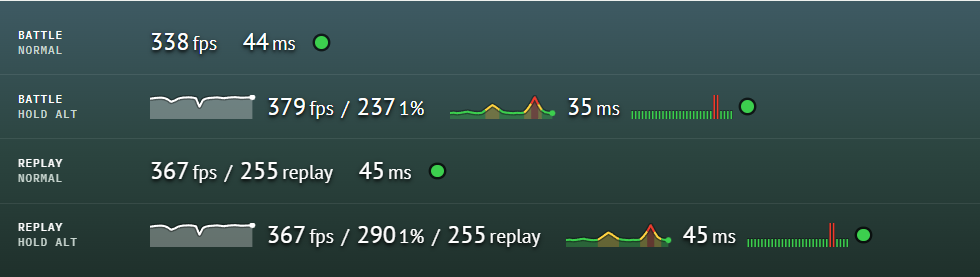
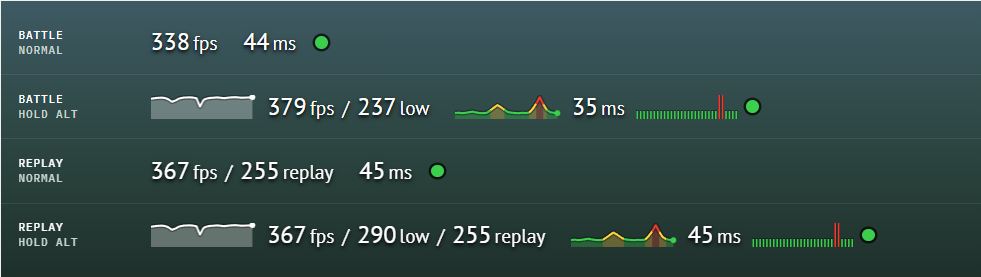
v1.0.0: low label; drop lag probe, per-second & debug logs

diff --git a/src/gui/mods/sagtary_fps_ping/flash_view.py b/src/gui/mods/sagtary_fps_ping/flash_view.py
@@ -54,9 +54,9 @@ def _createShadow(factory):
 
 
 def _createVectors(factory):
-    # Flash vectors for Graphics.drawPath: fill commands, line commands and the points; None if unavailable.
+    # Flash vectors for Graphics.drawPath: the commands and the points; None if unavailable.
     try:
-        vectors = (factory.getObject(_VECTOR_INT), factory.getObject(_VECTOR_INT), factory.getObject(_VECTOR_NUMBER))
+        vectors = (factory.getObject(_VECTOR_INT), factory.getObject(_VECTOR_NUMBER))
     except Exception:
         _logger.exception('cannot create Flash vectors for drawPath')
         return None
@@ -91,8 +91,6 @@ class _TextWidths(object):
         if (all(3.0 <= width <= 20.0 for width in digits.values()) and all(width > 0.0 for width in units.values())
                 and len(set(units.values())) > 1):
             self._digits, self._units = digits, units
-            _logger.info('text widths: digits %s, %s', ' '.join('%.1f' % digits[char] for char in _DIGITS),
-                         ', '.join('%s %.1f' % (unit, width) for unit, width in sorted(units.items())))
         else:
             _logger.warning('text widths look wrong (digits %s, %s), using the defaults', digits, units)
 
@@ -111,7 +109,7 @@ class _TextWidths(object):
 
 
 class _Value(object):
-    # A text field with one or more values, "367fps / 290 1% / 255replay": each value a number with small helper
+    # A text field with one or more values, "367fps / 290low / 255replay": each value a number with small helper
     # text after it, values split by a "/". Knows the width of its text from _TextWidths; the text is set only when
     # it changes.
 
@@ -152,10 +150,6 @@ class _Graph(object):
         self._colour = colour
         self._zones = zones
         self._paths = _createVectors(factory)
-
-    @property
-    def drawPath(self):
-        return self._paths is not None
 
     def draw(self, points):
         graphics = self.shape.graphics
@@ -212,7 +206,7 @@ class _Graph(object):
 
     def _drawShapesPath(self, graphics, shapes):
         # All shapes in one call: Graphics.drawPath takes all points at once (command 1 = moveTo, 2 = lineTo).
-        commands, _, data = self._paths
+        commands, data = self._paths
         _refill(commands, [command for shape in shapes for command in [1] + [2] * (len(shape) - 1)])
         _refill(data, [value for shape in shapes for point in shape for value in point])
         graphics.drawPath(commands, data)
@@ -260,7 +254,7 @@ class _LagTicks(object):
         if self._paths is not None:
             try:
                 # Each rectangle: moveTo and four lineTo.
-                commands, _, data = self._paths
+                commands, data = self._paths
                 _refill(commands, [1, 2, 2, 2, 2] * len(rects))
                 _refill(data, [value for x, y, w, h in rects
                                for value in (x, y, x + w, y, x + w, y + h, x, y + h, x, y)])
@@ -303,9 +297,10 @@ class _Lamp(object):
 
 
 class FlashView(object):
-    # Flash objects on the battle page, next to the game's own FPS/ping panel, in one line.
+    # Flash objects on the battle page, in place of the game's own FPS/ping panel, in one line.
     # Normal mode: "372fps    74ms ●". Extended mode (while Alt is held): each part with its graph before it, 1% low
-    # after the fps, the lag ticks before the lamp: "<graph> 372fps / 261 1%    <graph> 74ms <ticks> ●". In a replay the fps part also shows the FPS recorded in the replay: "367fps / 255replay".
+    # after the fps, the lag ticks before the lamp: "<graph> 372fps / 261low    <graph> 74ms <ticks> ●". In a replay
+    # the fps part also shows the FPS recorded in the replay: "367fps / 255replay".
     # The ping part and the lamp are hidden while there is no ping, everything while there is no FPS.
     # Python cannot construct Flash objects itself; the game's class factory (App.utils.classFactory) does it.
 
@@ -363,8 +358,6 @@ class FlashView(object):
         flashObject.parent.addChild(container)
         self._container = container
         self._visible = (False,) * len(self._children)
-        _logger.info('view created, drawPath vectors %s',
-                     'ready' if self._fpsGraph.drawPath and self._pingGraph.drawPath else 'unavailable')
 
     def detach(self):
         container = self._container
@@ -406,7 +399,7 @@ class FlashView(object):
         if hasFps:
             values = [(self._fps, u'fps')]
             if extended and self._low is not None:
-                values.append((self._low, u'1%'))
+                values.append((self._low, u'low'))
             if self._replayFps is not None:
                 values.append((self._replayFps, u'replay'))
             self._fpsText.set(values)

diff --git a/src/gui/mods/sagtary_fps_ping/config.py b/src/gui/mods/sagtary_fps_ping/config.py
@@ -5,11 +5,6 @@
 UPDATE_INTERVAL = 0.2
 # FPS is counted over the frames of the last FPS_WINDOW seconds.
 FPS_WINDOW = 1.0
-# FPS, 1% low and ping go to game.log every N screen updates (once per second).
-LOG_EVERY = 5
-# Temporary: for this many seconds from the start of each battle, write statLagDetected() and the server timing of
-# every frame to a CSV in the system temp folder (lag_probe.py); 0 turns it off.
-LAG_PROBE_SECONDS = 600
 # The game's own FPS/ping panel is hidden; the view takes its place.
 HIDE_GAME_PANEL = True
 
@@ -35,7 +30,7 @@ GRAPH_POINTS = int(round(GRAPH_SECONDS / GRAPH_INTERVAL))
 VIEW_POSITION = (9, 2)
 # Normal mode: one line, "372fps    74ms ●"; in a replay "367fps / 255replay    45ms ●" (the measured FPS, then the
 # one recorded in the replay). While the extended info key (Alt) is held, also one line:
-# "<graph> 372fps / 261 1%    <graph> 74ms <lag ticks> ●"; in a replay "<graph> 367fps / 290 1% / 255replay ...".
+# "<graph> 372fps / 261low    <graph> 74ms <lag ticks> ●"; in a replay "<graph> 367fps / 290low / 255replay ...".
 # Gaps: between a graph and its number, between the fps and the ping parts, between the ping text and the lamp,
 # between the ping text and the lag ticks, between the lag ticks and the lamp.
 GAP_GRAPH = 7
@@ -53,7 +48,7 @@ GRAPH_HEADROOM = 1.1
 PING_NONE = 999.0
 
 # Look: the game's own panel font, all text pure white like the panel's label picture. Numbers 15 px, the helper
-# text after a number ("fps", "1%", "replay", "ms") 12 px on the same baseline, 2 px after it; the values of one
+# text after a number ("fps", "low", "replay", "ms") 12 px on the same baseline, 2 px after it; the values of one
 # part are split by a 12 px "/" with 5 px on both sides. The gaps are spaces of a smaller font size (half the size
 # in px), so a size 4 space is 2 px.
 NUMBER_HTML = u'<font face="$FieldFont" size="15" color="#FFFFFF">%s</font>'
@@ -63,7 +58,7 @@ SEPARATOR_HTML = (u'<font face="$FieldFont" size="10"> </font>'
                   u'<font face="$FieldFont" size="10"> </font>')
 # Text widths: Python cannot read the width of a shown text field reliably, so the width of each digit, helper text
 # and separator is measured once when the view is created, and these are used if that fails: digit, then the texts.
-TEXT_WIDTHS = (8.0, {u'fps': 18.0, u'1%': 17.0, u'replay': 36.0, u'ms': 17.0, u'/': 14.0})
+TEXT_WIDTHS = (8.0, {u'fps': 18.0, u'low': 20.0, u'replay': 36.0, u'ms': 17.0, u'/': 14.0})
 # Text shadow, a DropShadowFilter like the game's own panel text has (read from the game in 2.4), but a little
 # darker: strength 0.8 instead of 0.6. Distance, angle, colour, alpha, blur, strength, quality.
 TEXT_SHADOW = (1.0, 90.0, 0x000000, 1.0, 4.0, 0.8, 2)

diff --git a/src/gui/mods/sagtary_fps_ping/indicator.py b/src/gui/mods/sagtary_fps_ping/indicator.py
@@ -1,5 +1,5 @@
 # -*- coding: utf-8 -*-
-"""Battle loop: measures frames, reads ping, updates the view and writes both to game.log."""
+"""Battle loop: measures frames, reads ping and lag, updates the view."""
 import logging
 from collections import deque
 
@@ -8,14 +8,10 @@ import BigWorld
 from gui.shared import EVENT_BUS_SCOPE, g_eventBus
 from gui.shared.events import GameEvent
 
-from gui.mods.sagtary_fps_ping.config import GRAPH_EVERY, GRAPH_POINTS, LOG_EVERY, PING_NONE, UPDATE_INTERVAL
+from gui.mods.sagtary_fps_ping.config import GRAPH_EVERY, GRAPH_POINTS, PING_NONE, UPDATE_INTERVAL
 from gui.mods.sagtary_fps_ping.frame_timer import FrameTimer
 
 _logger = logging.getLogger('sagtary.fps_ping')
-
-
-def _fmt(value):
-    return '%.1f' % value if value is not None else '-'
 
 
 def _replay():
@@ -68,7 +64,6 @@ class Indicator(object):
         self._view.setExtended(False)
         g_eventBus.addListener(GameEvent.SHOW_EXTENDED_INFO, self._onExtendedInfo, scope=EVENT_BUS_SCOPE.BATTLE)
         self._frameTimer.start()
-        _logger.info('indicator started')
         self._update()
 
     def stop(self):
@@ -82,7 +77,6 @@ class Indicator(object):
             self._running = False
             self._runView(self._view.hide)
             g_eventBus.removeListener(GameEvent.SHOW_EXTENDED_INFO, self._onExtendedInfo, scope=EVENT_BUS_SCOPE.BATTLE)
-            _logger.info('indicator stopped')
 
     def _update(self):
         self._callbackID = None
@@ -108,8 +102,6 @@ class Indicator(object):
             self._runView(self._view.update, fps, low, ping, lag, replayFps)
             if self._view.extended and newPoint:
                 self._scheduleGraphs()
-            if self._updates % LOG_EVERY == 0:
-                _logger.info('fps %s | 1%% low %s | ping %s', _fmt(fps), _fmt(low), _fmt(ping))
             self._updates += 1
         except Exception:
             _logger.exception('update failed, indicator stopped')

diff --git a/src/gui/mods/sagtary_fps_ping/frame_timer.py b/src/gui/mods/sagtary_fps_ping/frame_timer.py
@@ -7,7 +7,6 @@ from collections import deque
 import BigWorld
 
 from gui.mods.sagtary_fps_ping.config import CLOCK_CHECK_TIME, CLOCK_MIN_RATIO, FPS_WINDOW
-from gui.mods.sagtary_fps_ping.lag_probe import LagProbe
 from gui.mods.sagtary_fps_ping.low_fps import LowFPS
 
 _logger = logging.getLogger('sagtary.fps_ping')
@@ -28,17 +27,14 @@ class FrameTimer(object):
         self._frames = deque()
         self._framesTime = 0.0
         self.low = LowFPS()
-        self._lagProbe = LagProbe()
 
     def start(self):
         self.stop()
         self._clockCheck = (self._clock(), BigWorld.time())
         self._resetFrames()
-        self._lagProbe.start(self._clock())
         self._tick()
 
     def stop(self):
-        self._lagProbe.stop()
         if self._callbackID is not None:
             BigWorld.cancelCallback(self._callbackID)
             self._callbackID = None
@@ -58,7 +54,6 @@ class FrameTimer(object):
         self._callbackID = None
         try:
             now = self._clock()
-            self._lagProbe.add(now, BigWorld.wg_getFrameTimestamp())
             if self._lastTime is not None:
                 self._addFrame(now, now - self._lastTime)
             self._lastTime = now
@@ -85,7 +80,6 @@ class FrameTimer(object):
         self._clockCheck = None
         ratio = (now - clockStart) / engineElapsed
         if ratio >= CLOCK_MIN_RATIO:
-            _logger.info('clock %s ok, ratio to BigWorld.time() %.3f', self._clockName, ratio)
             return
         _logger.warning('clock %s runs at %.3f of BigWorld.time(), using BigWorld.timeExact()', self._clockName, ratio)
         self._clock = BigWorld.timeExact

diff --git a/src/gui/mods/mod_sagtary_fps_ping.py b/src/gui/mods/mod_sagtary_fps_ping.py
@@ -12,7 +12,7 @@ from gui.mods.sagtary_fps_ping.config import HIDE_GAME_PANEL
 from gui.mods.sagtary_fps_ping.flash_view import FlashView
 from gui.mods.sagtary_fps_ping.indicator import Indicator
 
-__version__ = '0.26.0'
+__version__ = '1.0.0'
 
 _logger = logging.getLogger('sagtary.fps_ping')
 
@@ -23,7 +23,7 @@ _originalDispose = DebugPanel._dispose
 
 
 def _populate(self):
-    # The game's own FPS/ping panel is created with the battle page; the view goes next to it.
+    # The game's own FPS/ping panel is created with the battle page; the view takes its place.
     _originalPopulate(self)
     if HIDE_GAME_PANEL:
         try:
@@ -59,4 +59,3 @@ def fini():
     g_playerEvents.onAvatarBecomeNonPlayer -= _indicator.stop
     _indicator.stop()
     _view.detach()
-    _logger.info('fini')

diff --git a/README.md b/README.md
@@ -27,10 +27,10 @@ FPS history for the last 30 seconds, newest on the right. Alt only.
 
 #### 1% low
 
-FPS of the slowest moments. Alt only. Example: `237 1%`.
+FPS of the slowest moments. Alt only. Example: `237low`.
 
 - The FPS of the slowest 1% of the time over the last 30 seconds.
-- Shows stutters that the average FPS hides: 379 fps with 237 1% means short drops to about 237.
+- Shows stutters that the average FPS hides: 379fps with 237low means short drops to about 237.
 
 #### Replay FPS
 
